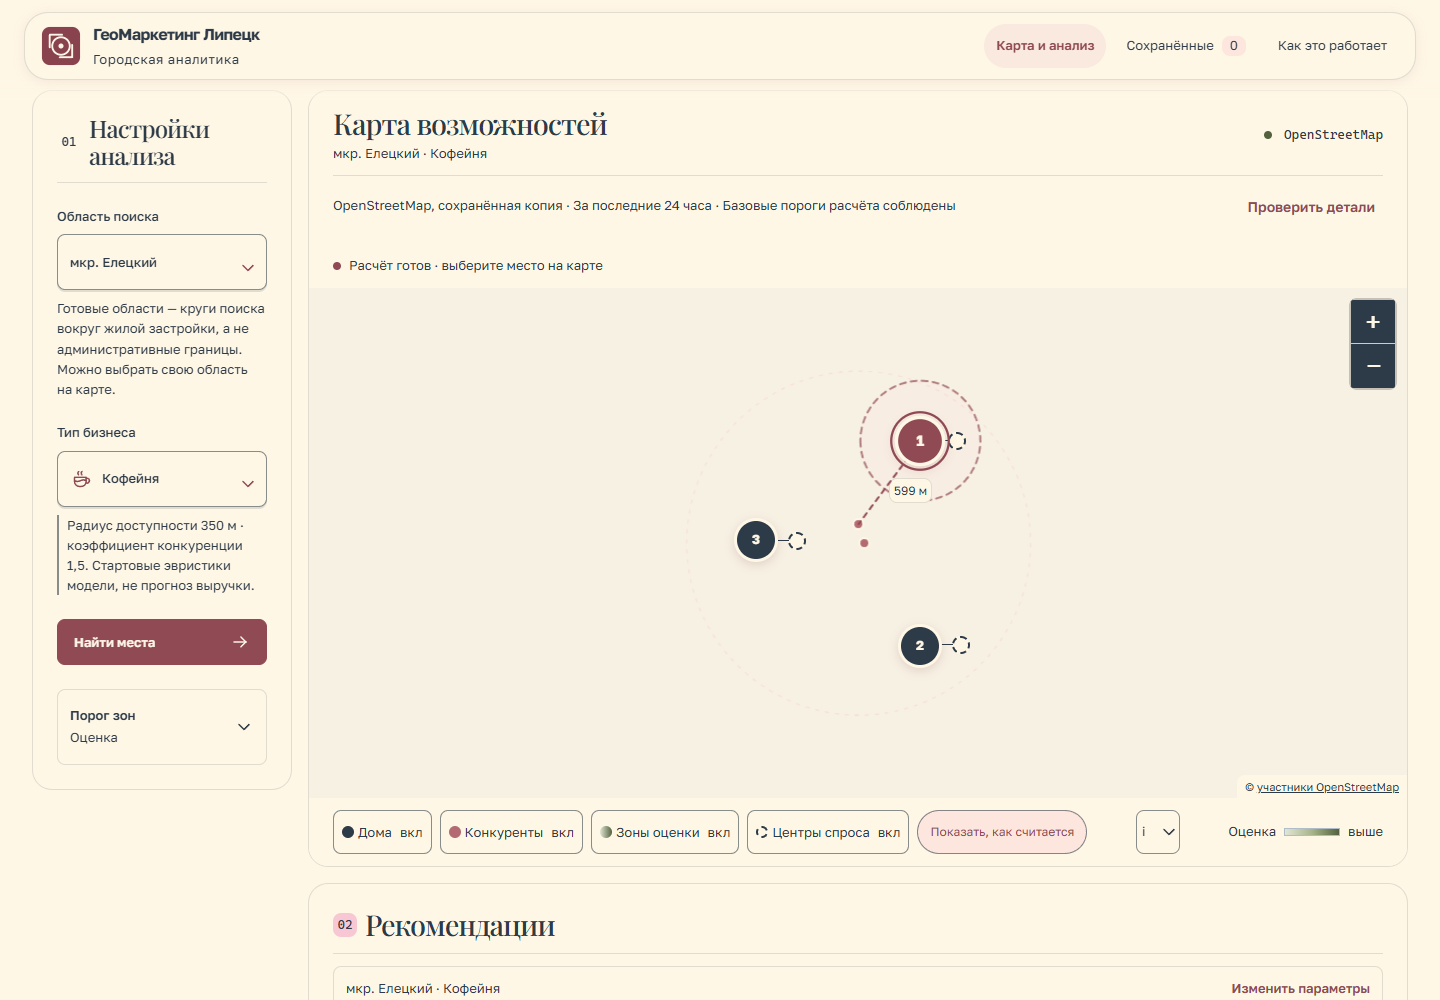
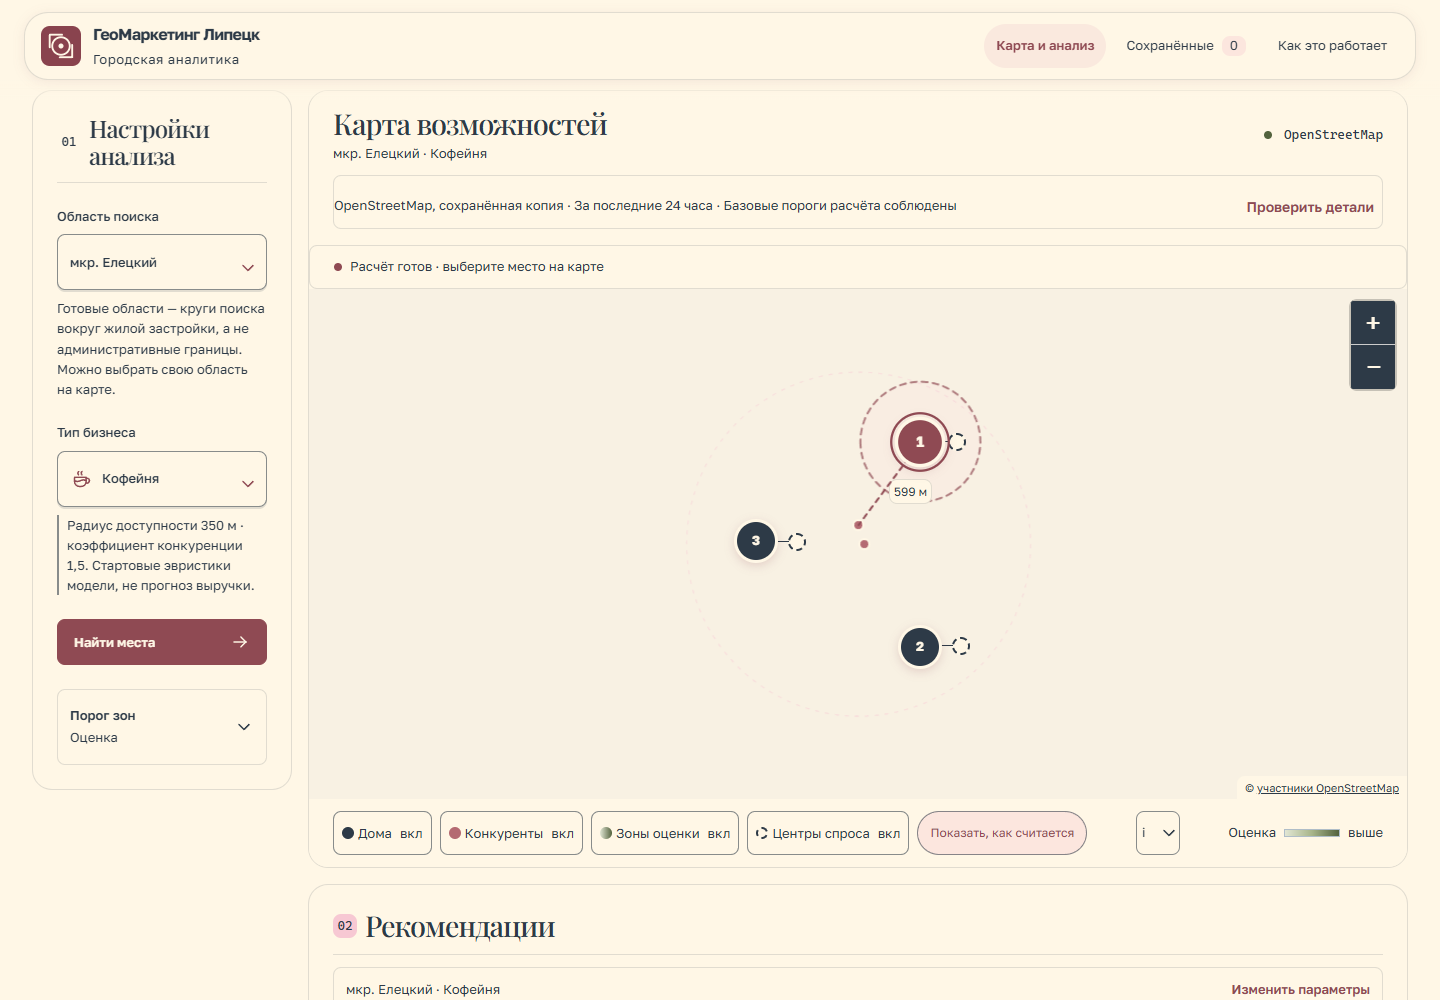
шалфей только на карте

diff --git a/static/css/palette.css b/static/css/palette.css
@@ -42,10 +42,12 @@
  --palette-sky:var(--palette-ink); --palette-sky-soft:var(--palette-cream); --palette-sky-deep:var(--palette-ink);
  --palette-sage-soft:var(--palette-cream); --palette-ink-muted:var(--palette-ink);
  --color-map-house:var(--palette-ink); --color-glow-blue:var(--color-glow);
- --palette-map-muted:var(--palette-cream);
+ --palette-map-muted:var(--palette-cream); --color-opportunity:var(--palette-rosewood-deep);
 }
 :root[data-theme=B] :is(.city-block.block-0,.city-radius) { fill:var(--palette-pink); stroke:var(--palette-rosewood-deep); }
 :root[data-theme=B] .analysis-bar .status-dot { background:var(--palette-rosewood-deep); }
+:root[data-theme=B] .place-difference { border-inline-start-color:var(--palette-rosewood-deep); }
+:root[data-theme=B] :is(.kpis,.area-details-grid)>div:nth-child(4) { --kpi-accent:var(--palette-rosewood-deep); }
 :root[data-theme=C] :is(.settings,.mobile-settings-dialog) {
  --color-settings-panel:var(--palette-ink); --color-settings-field:var(--palette-ink);
  --color-settings:var(--palette-ink); --color-settings-ink:var(--palette-cream);
